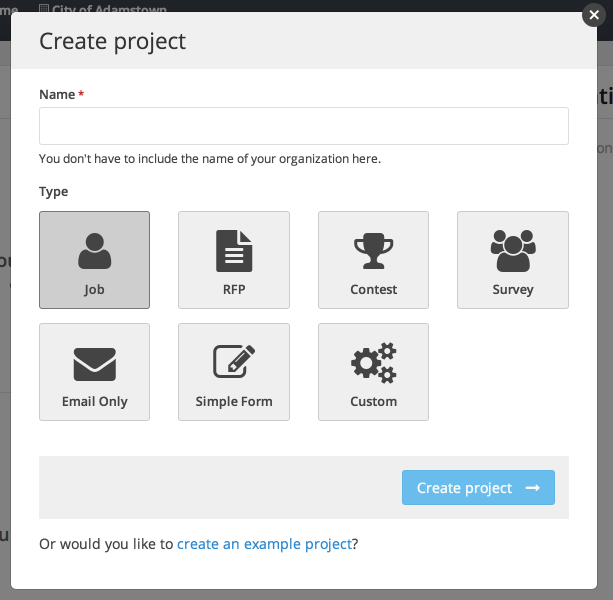
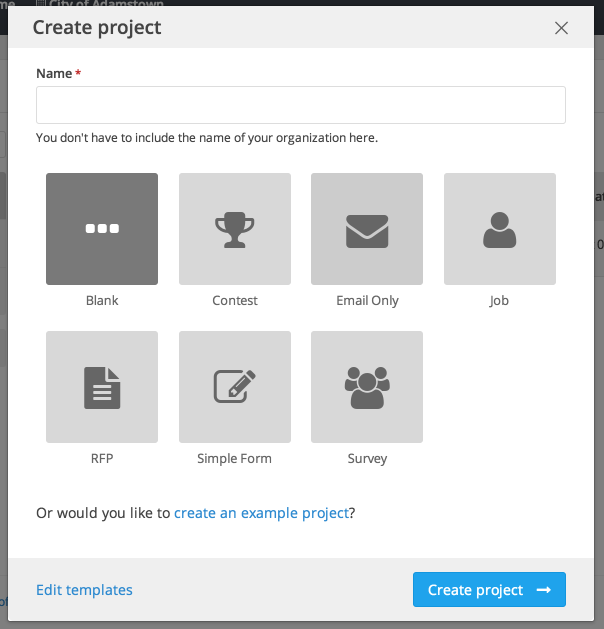
update 'create project' article

diff --git a/contents/articles/screendoor/projects/creating_a_project.md b/contents/articles/screendoor/projects/creating_a_project.md
@@ -6,7 +6,7 @@ app_pages:
   - home-index
 ---
 
-From Screendoor, it's easy to create a new project. Just click the <img src='../images/create_project1.png' style='vertical-align:bottom;' /> button or select "New Project" from the Projects dropdown.
+From Screendoor, it's easy to create a new project. Just click the "Create project" button or select "New Project" from the Projects dropdown.
 
 ![create project](../images/create_project2.png)
 
@@ -16,9 +16,9 @@ If one of our templates corresponds to the type of project you would like to cre
 
 ![templates](../images/templates.png)
 
-## Custom project (no template)
+## Blank project (no template)
 
-Select the "Custom" type to create a custom project without a template. Custom projects don't have any pre-configured options, so you can set it up according to your project's specifications.
+Select the "Blank" type to create a blank project. Blank projects don't have any pre-configured options, so you can set it up according to your project's specifications.
 
 ## Demo projects
 
